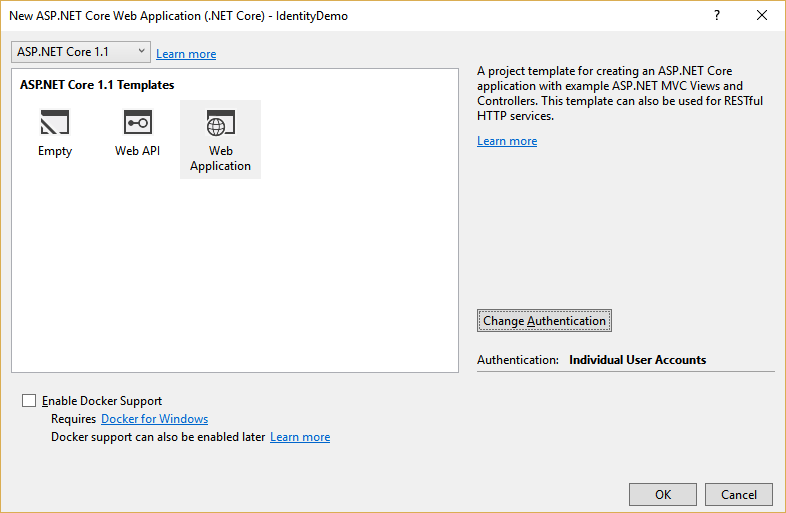
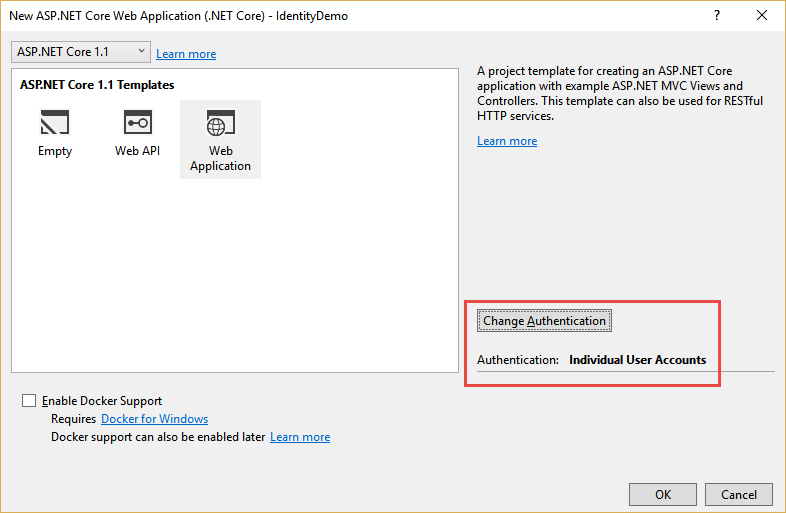
Adding red box; adding link to account confirmation.

Changed region(s): [[0.5802, 0.5614, 0.916, 0.7797]]

diff --git a/aspnetcore/security/authentication/identity.md b/aspnetcore/security/authentication/identity.md
@@ -70,137 +70,8 @@ In this topic, you'll learn how to use ASP.NET Core Identity to add functionalit
     [!code-csharp[Main](identity/sample/src/ASPNET-IdentityDemo/Controllers/AccountController.cs?name=register&highlight=11)]
 
     If the user was created successfully, the user is logged in by the call to ``_signInManager.SignInAsync``.
- 
-4.  Log in.
- 
-    Users can sign in by clicking the **Log in** link at the top of the site, or they may be navigated to the Login page if they attempt to access a part of the site that requires authorization. When the user submits the form on the Login page, the ``AccountController`` ``Login`` action is called.
 
-    [!code-csharp[Main](identity/sample/src/ASPNET-IdentityDemo/Controllers/AccountController.cs?name=login&highlight=13-14)]
- 
-    The ``Login`` action calls ``PasswordSignInAsync`` on the ``_signInManager`` object (provided to ``AccountController`` by dependency injection).
- 
-    The base ``Controller`` class exposes a ``User`` property that you can access from controller methods. For instance, you can enumerate `User.Claims` and make authorization decisions. For more information, see [Authorization](xref:security/authorization/index).
- 
-5.  Log out.
- 
-    Clicking the **Log out** link calls the `LogOut` action.
- 
-    [!code-csharp[Main](identity/sample/src/ASPNET-IdentityDemo/Controllers/AccountController.cs?name=logout&highlight=7)]
- 
-    The preceding code above the `_signInManager.SignOutAsync` method. The `SignOutAsync` method clears the user's claims stored in a cookie.
- 
-6.  Configuration.
-
-    Identity has some default behaviors that you can override in your application's startup class. You do not need to configure ``IdentityOptions`` if you are using the default behaviors.
- 
-    [!code-csharp[Main](identity/sample/src/ASPNET-IdentityDemo/Startup.cs?name=configureservices&highlight=13-34)]
-	
-	For more information about how to configure Identity, see [Configure Identity](xref:security/authentication/identity-configuration).
-	
-	You also can configure the data type of the primary key, see [Configure Identity primary keys data type](xref:security/authentication/identity-primary-key-configuration).
- 
-7.  View the database.
-
-    If your app is using a SQL Server database (the default on Windows and for Visual Studio users), you can view the database the app created. You can use **SQL Server Management Studio**. Alternatively, from Visual Studio, select **View** -> **SQL Server Object Explorer**. Connect to **(localdb)\MSSQLLocalDB**. The database with a name matching **aspnet-<*name of your project*>-<*date string*>** is displayed.
-
-    ![Contextual menu on AspNetUsers database table](identity/_static/04-db.png)
-    
-    Expand the database and its **Tables**, then right-click the **dbo.AspNetUsers** table and select **View Data**.
-
-## Identity Components
-
-The primary reference assembly for the identity system is `Microsoft.AspNetCore.Identity`. This package contains the core set of interfaces for ASP.NET Core Identity, and is included by `Microsoft.AspNetCore.Identity.EntityFrameworkCore`.
-
-These dependencies are needed to use the identity system in ASP.NET Core applications:
-
-* `Microsoft.AspNetCore.Identity.EntityFrameworkCore` - Contains the required types to use Identity with Entity Framework Core.
-
-* `Microsoft.EntityFrameworkCore.SqlServer` - Entity Framework Core is Microsoft's recommended data access technology for relational databases like SQL Server. For testing, you can use `Microsoft.EntityFrameworkCore.InMemory`.
-
-* `Microsoft.AspNetCore.Authentication.Cookies` - Middleware that enables an app to use cookie-based authentication.
-
-## Migrating to ASP.NET Core Identity
-
-For additional information and guidance on migrating your existing identity store see [Migrating Authentication and Identity](xref:migration/identity).
-
-## Next Steps
-
-* [Migrating Authentication and Identity](xref:migration/identity)
-* [Account Confirmation and Password Recovery](xref:security/authentication/accconfirm)
-* [Two-factor authentication with SMS](xref:security/authentication/2fa)
-* [Enabling authentication using Facebook, Google and other external providers](xref:security/authentication/social/index)
----
-title: Introduction to Identity on ASP.NET Core
-author: rick-anderson
-description: Using Identity with an ASP.NET Core app
-keywords: ASP.NET Core, Identity, authorization, security
-ms.author: riande
-manager: wpickett
-ms.date: 7/7/2017
-ms.topic: article
-ms.assetid: cf119f21-1a2b-49a2-b052-547ccb66ee83
-ms.technology: aspnet
-ms.prod: asp.net-core
-uid: security/authentication/identity
----
-# Introduction to Identity on ASP.NET Core
-
-By [Pranav Rastogi](https://github.com/rustd), [Rick Anderson](https://twitter.com/RickAndMSFT), [Tom Dykstra](https://github.com/tdykstra), Jon Galloway, [Erik Reitan](https://github.com/Erikre), and [Steve Smith](http://ardalis.com)
-
-ASP.NET Core Identity is a membership system which allows you to add login functionality to your application. Users can create an account and login with a user name and password or they can use an external login provider such as Facebook, Google, Microsoft Account, Twitter or others.
-
-You can configure ASP.NET Core Identity to use a SQL Server database to store user names, passwords, and profile data. Alternatively, you can use your own persistent store, for example Azure Table Storage. This document contains instructions for Visual Studio and for using the CLI.
-
-## Overview of Identity
-
-In this topic, you'll learn how to use ASP.NET Core Identity to add functionality to register, log in, and log out a user. For more detailed instructions about creating apps using ASP.NET Core Identity, see the Next Steps section at the end of this article.
-
-1.  Create an ASP.NET Core Web Application project with Individual User Accounts.
-
-    In Visual Studio, select **File** -> **New** -> **Project**. Select the **ASP.NET Web Application** from the **New Project** dialog box. Selecting an ASP.NET Core **Web Application** with **Individual User Accounts** as the authentication method.
-
-    Note: You must select **Individual User Accounts**.
- 
-    ![New Project dialog](identity/_static/01-mvc.png)
-
-    If using the dotnet CLI, create the new project using ``dotnet new mvc --auth Individual``. This will create a new project with the same identity template code Visual Studio creates.
- 
-    The created project contains the `Microsoft.AspNetCore.Identity.EntityFrameworkCore` package, which will persist the identity data and schema to SQL Server using [Entity Framework Core](https://docs.efproject.net).
- 
-2.  Configure identity services and add middleware in `Startup`.
-
-    The identity services are added to the application in the `ConfigureServices` method in the `Startup` class:
- 
-    [!code-csharp[Main](identity/sample/src/ASPNET-IdentityDemo/Startup.cs?name=configureservices&highlight=7-9,13-34)]
-	
-    These services are made available to the application through [dependency injection](xref:fundamentals/dependency-injection).
- 
-    Identity is enabled for the application by calling  `UseIdentity` in the `Configure` method. `UseIdentity` adds cookie-based authentication [middleware](xref:fundamentals/middleware) to the request pipeline.
- 
-    [!code-csharp[Main](identity/sample/src/ASPNET-IdentityDemo/Startup.cs?name=configure&highlight=21)]
- 
-    For more information about the application start up process, see [Application Startup](xref:fundamentals/startup).
-
-3.  Create a user.
- 
-    Launch the application and then click on the **Register** link.
-
-    If this is the first time you're performing this action, you may be required to run migrations. The application prompts you to **Apply Migrations**:
-    
-    ![Apply Migrations Web Page](identity/_static/apply-migrations.png)
-    
-    Alternately, you can test using ASP.NET Core Identity with your app without a persistent database by using an in-memory database. To use an in-memory database, add the ``Microsoft.EntityFrameworkCore.InMemory`` package to your app and modify your app's call to ``AddDbContext`` in ``ConfigureServices`` as follows:
-
-    ```
-    services.AddDbContext<ApplicationDbContext>(options =>
-        options.UseInMemoryDatabase(Guid.NewGuid().ToString()));
-    ```
-    
-    When the user clicks the **Register** link, the ``Register`` action is invoked on ``AccountController``. The ``Register`` action creates the user by calling `CreateAsync` on the  `_userManager` object (provided to ``AccountController`` by dependency injection):
- 
-    [!code-csharp[Main](identity/sample/src/ASPNET-IdentityDemo/Controllers/AccountController.cs?name=register&highlight=11)]
-
-    If the user was created successfully, the user is logged in by the call to ``_signInManager.SignInAsync``.
+    **Note:** See [account confirmation](xref:security/authentication/accconfirm#prevent-login-at-registration) for steps to prevent immediate login at registration.
  
 4.  Log in.
  
